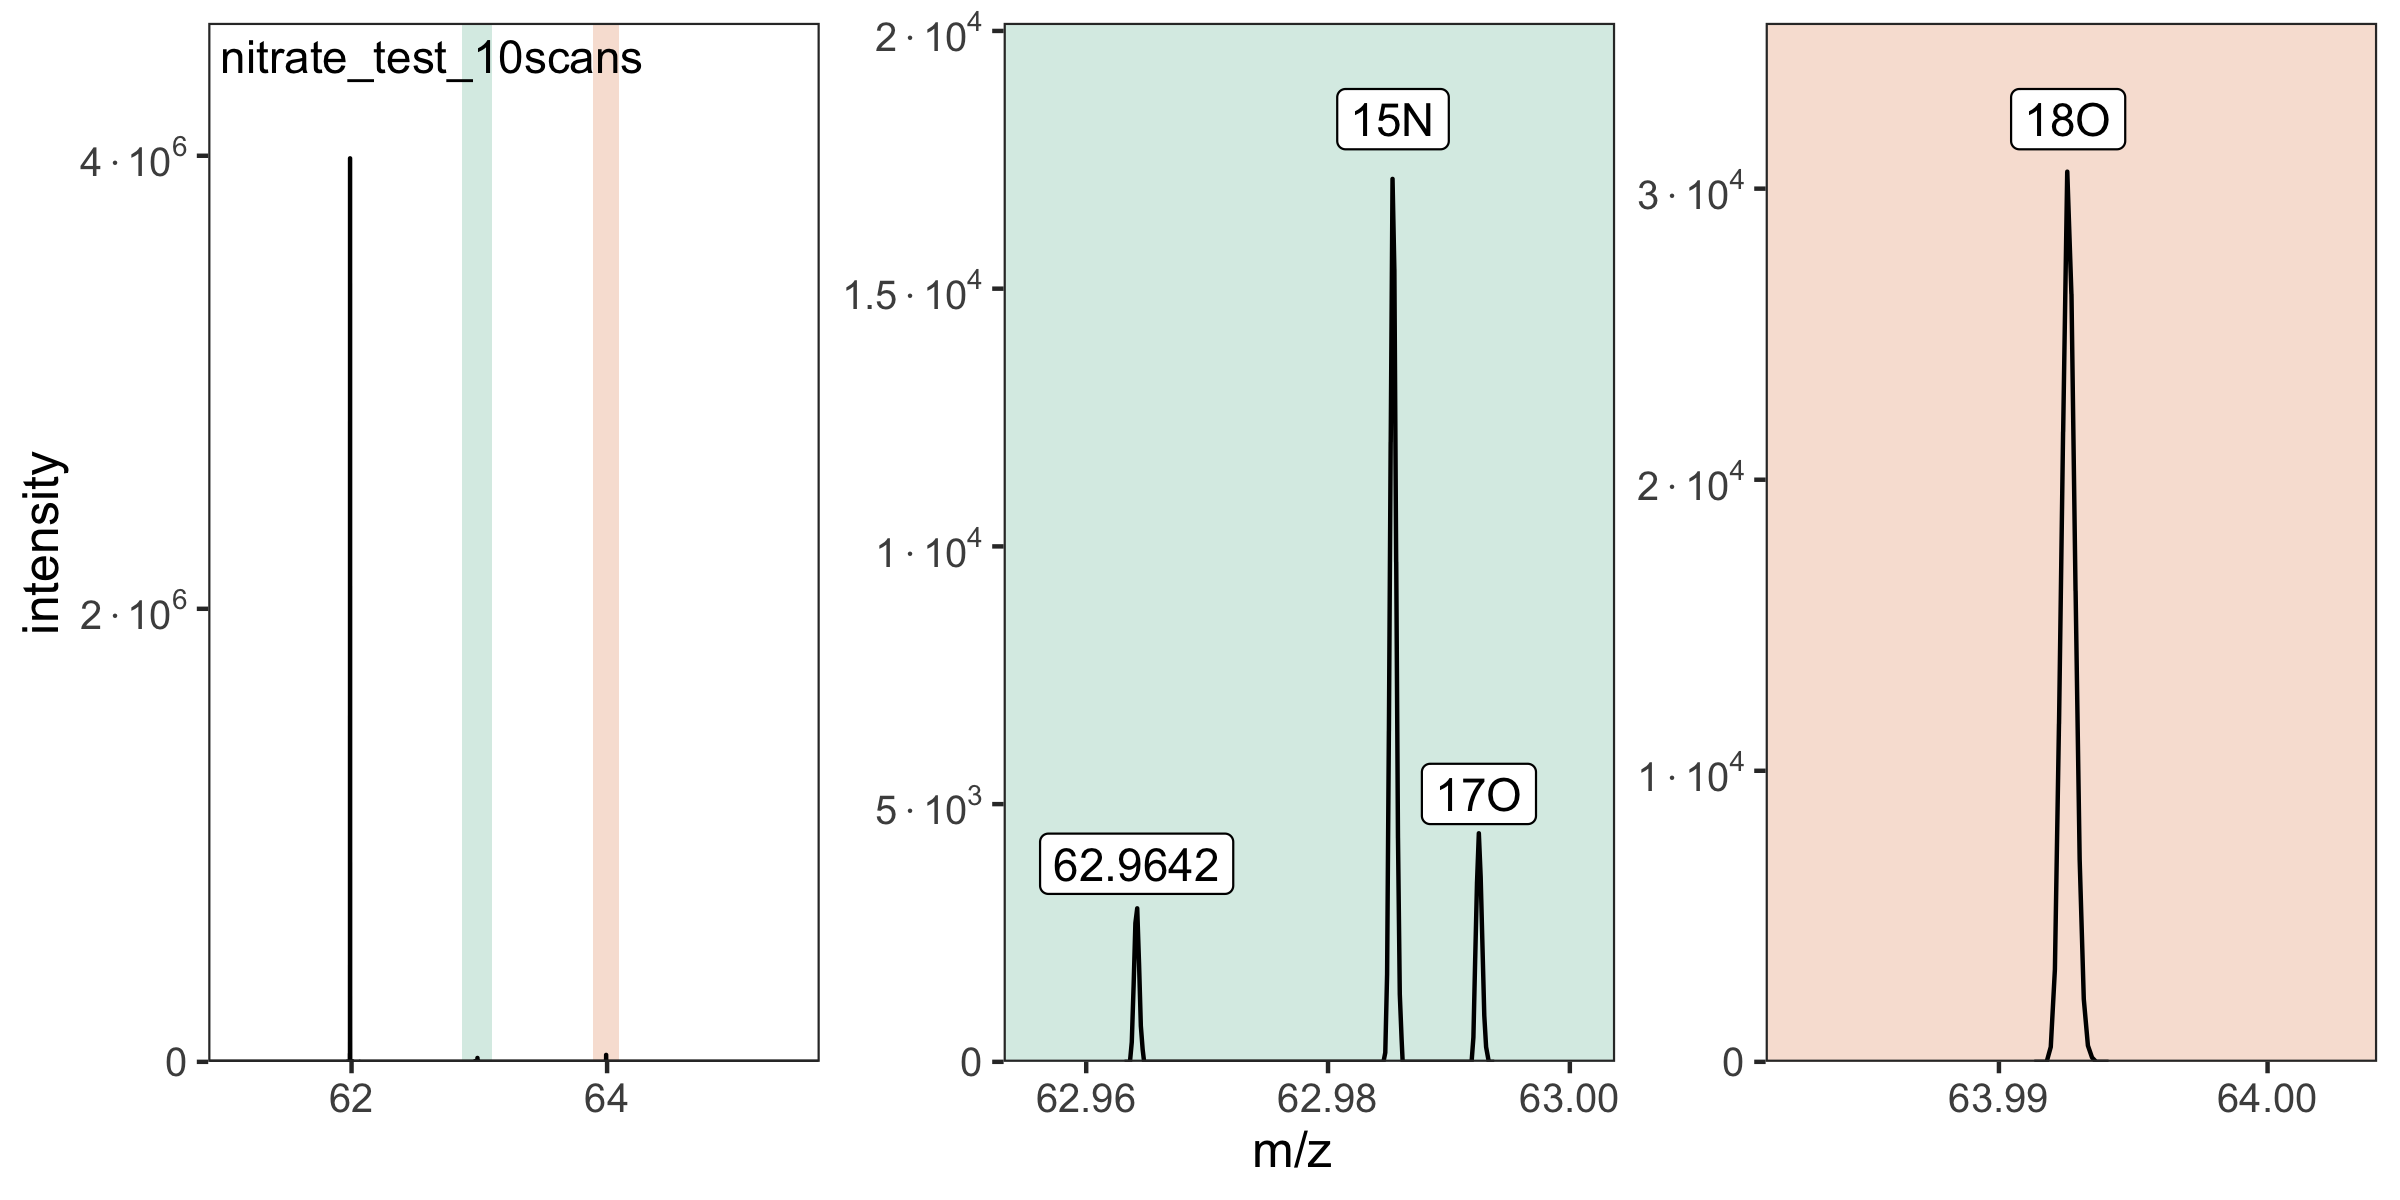
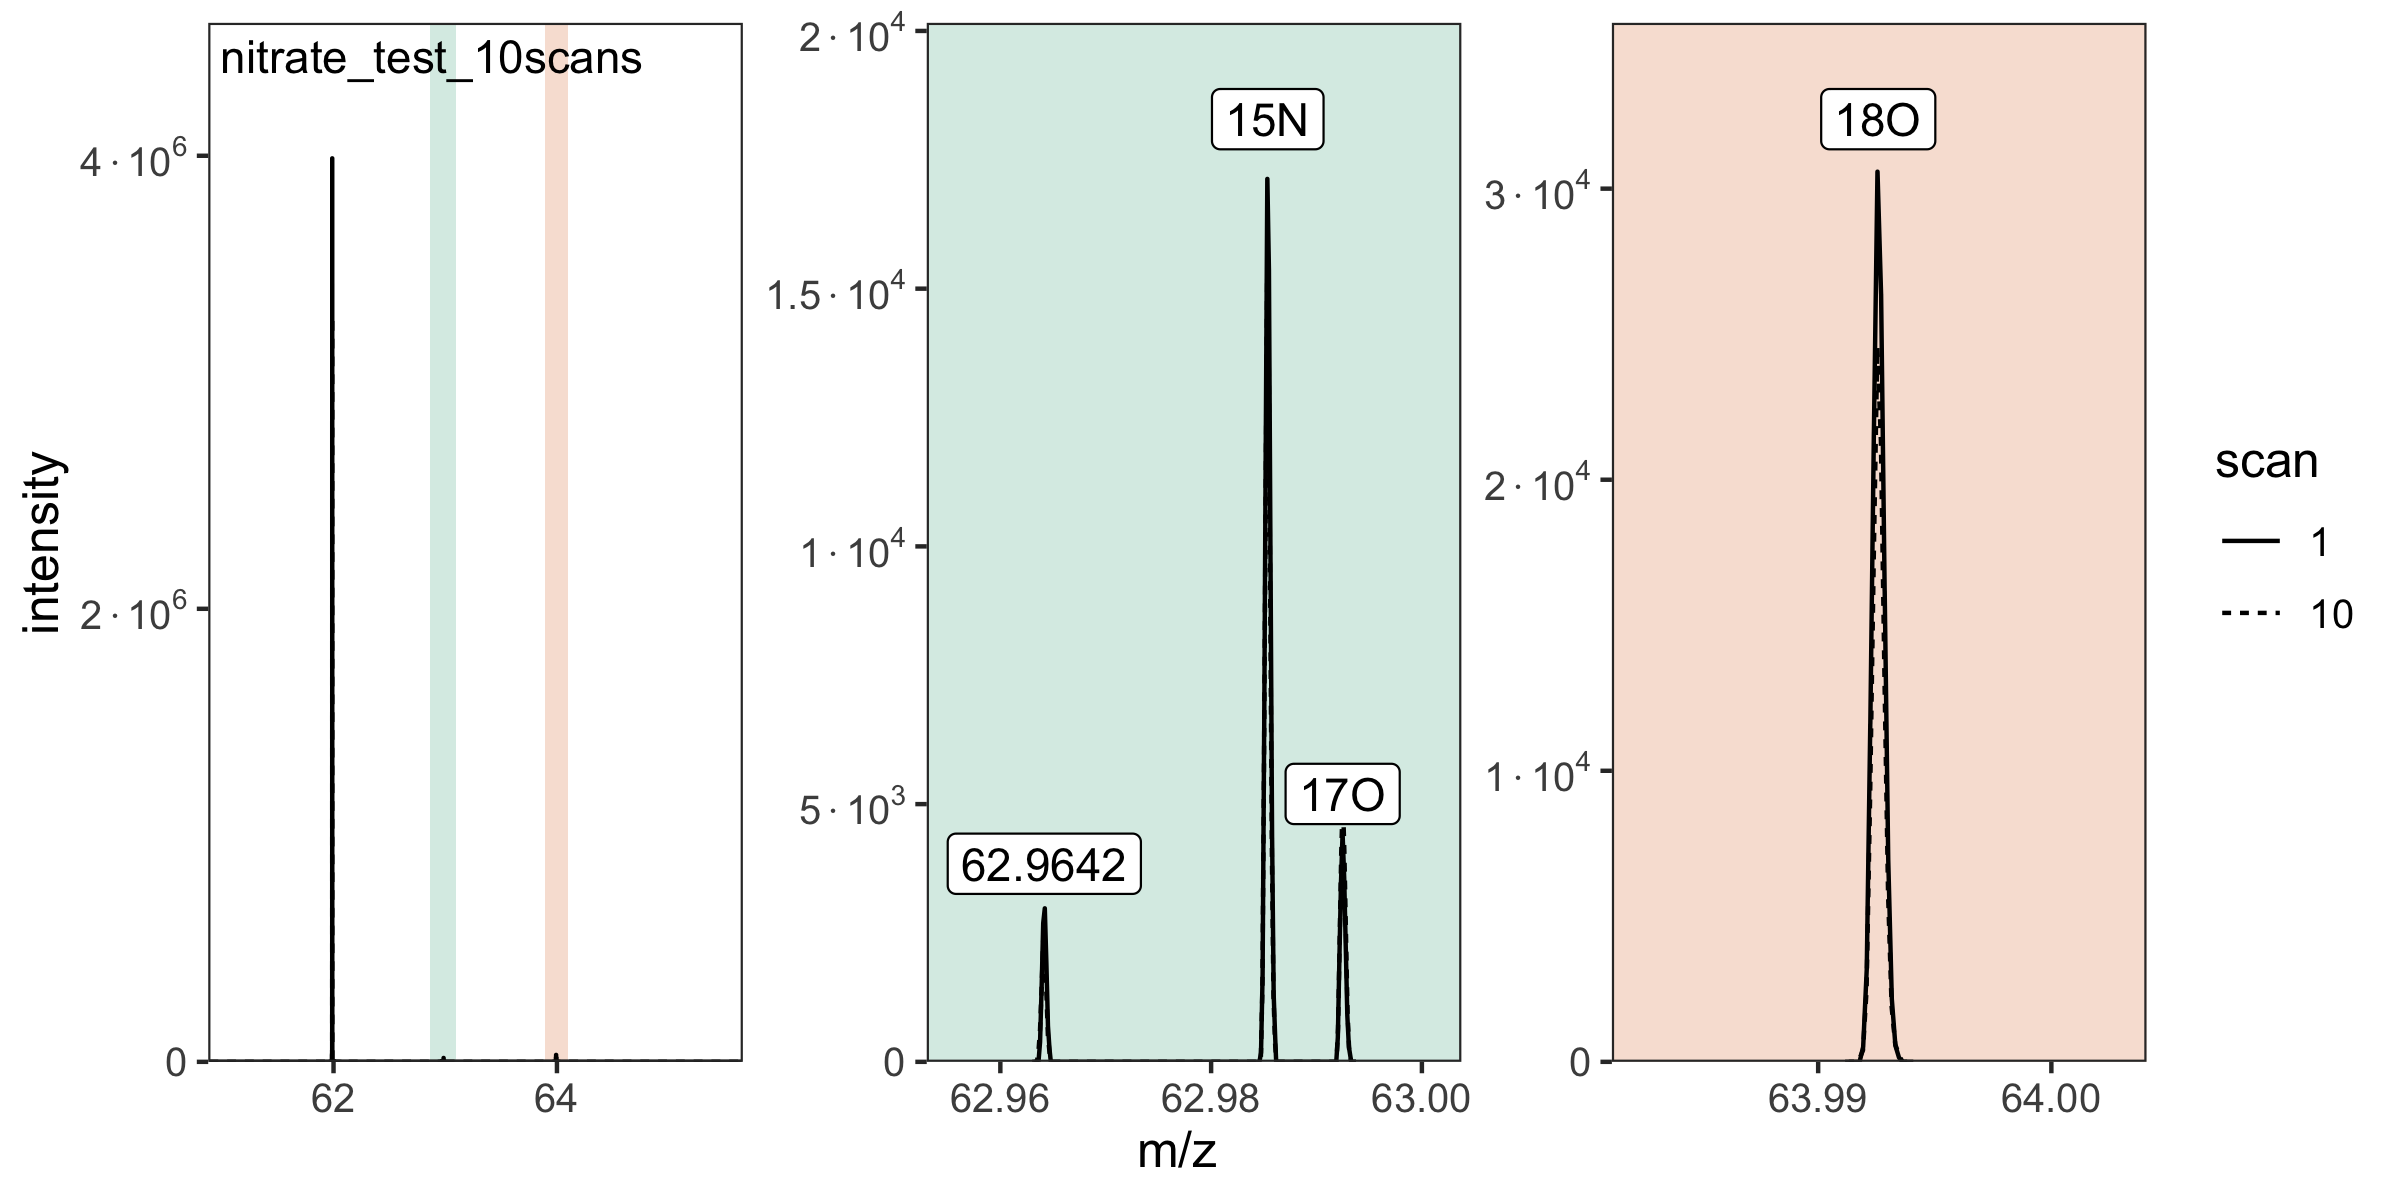
update readme

diff --git a/README.md b/README.md
@@ -16,7 +16,8 @@ coverage](https://codecov.io/gh/isoverse/isoorbi/graph/badge.svg)](https://app.c
 
 The goal of the isoorbi R package is to help you process isotopocule
 measurements from an **Orbitrap Isotope Solutions** mass spectrometer.
-It expects <code>.isox</code> files created by IsoX as input.
+It can read both the <code>.raw</code> files (recommended approach) as
+well as <code>.isox</code> output created by IsoX(legacy approach).
 
 ## Installation
 
@@ -52,7 +53,8 @@ To use the latest updates, you can install the development version of
     library(isoorbi)
 
     # path to a small test file bundled with the package
-    file_path <- system.file(package = "isoorbi", "extdata", "nitrate_test_10scans.raw")
+    file_path <- 
+      system.file(package = "isoorbi", "extdata","nitrate_test_10scans.raw")
 
     # read the raw file incluing 2 of the raw spectra
     raw_files <- file_path |>
@@ -66,7 +68,7 @@ To use the latest updates, you can install the development version of
 
 ### Identify isotopcules
 
-    # define isotopcules of interest (could also come from a tsv, csv, or excel file)
+    # define isotopcules of interest (could come from tsv, csv, or excel file)
     isotopocules <- data.frame(
       isotopocule = c("M0", "15N", "17O", "18O"),
       mass = c(61.9878, 62.9850, 62.9922, 63.9922),
@@ -77,7 +79,7 @@ To use the latest updates, you can install the development version of
     raw_files <- raw_files |> orbi_identify_isotopocules(isotopocules)
 
     # plot again, now with the isotopocules identified
-    raw_files |> orbi_plot_spectra(max_scans = 1)
+    raw_files |> orbi_plot_spectra()
 
 <img src="man/figures/README-map-isotopocules-1.png" width="100%" />
 

diff --git a/pkgdown/index.md b/pkgdown/index.md
@@ -16,7 +16,8 @@ coverage](https://codecov.io/gh/isoverse/isoorbi/graph/badge.svg)](https://app.c
 
 The goal of the isoorbi R package is to help you process isotopocule
 measurements from an **Orbitrap Isotope Solutions** mass spectrometer.
-It expects <code>.isox</code> files created by IsoX as input.
+It can read both the <code>.raw</code> files (recommended approach) as
+well as <code>.isox</code> output created by IsoX(legacy approach).
 
 ## Installation
 
@@ -52,7 +53,8 @@ To use the latest updates, you can install the development version of
     library(isoorbi)
 
     # path to a small test file bundled with the package
-    file_path <- system.file(package = "isoorbi", "extdata", "nitrate_test_10scans.raw")
+    file_path <- 
+      system.file(package = "isoorbi", "extdata","nitrate_test_10scans.raw")
 
     # read the raw file incluing 2 of the raw spectra
     raw_files <- file_path |>
@@ -66,7 +68,7 @@ To use the latest updates, you can install the development version of
 
 ### Identify isotopcules
 
-    # define isotopcules of interest (could also come from a tsv, csv, or excel file)
+    # define isotopcules of interest (could come from tsv, csv, or excel file)
     isotopocules <- data.frame(
       isotopocule = c("M0", "15N", "17O", "18O"),
       mass = c(61.9878, 62.9850, 62.9922, 63.9922),
@@ -77,7 +79,7 @@ To use the latest updates, you can install the development version of
     raw_files <- raw_files |> orbi_identify_isotopocules(isotopocules)
 
     # plot again, now with the isotopocules identified
-    raw_files |> orbi_plot_spectra(max_scans = 1)
+    raw_files |> orbi_plot_spectra()
 
 <img src="man/figures/README-map-isotopocules-1.png" width="100%" />
 
